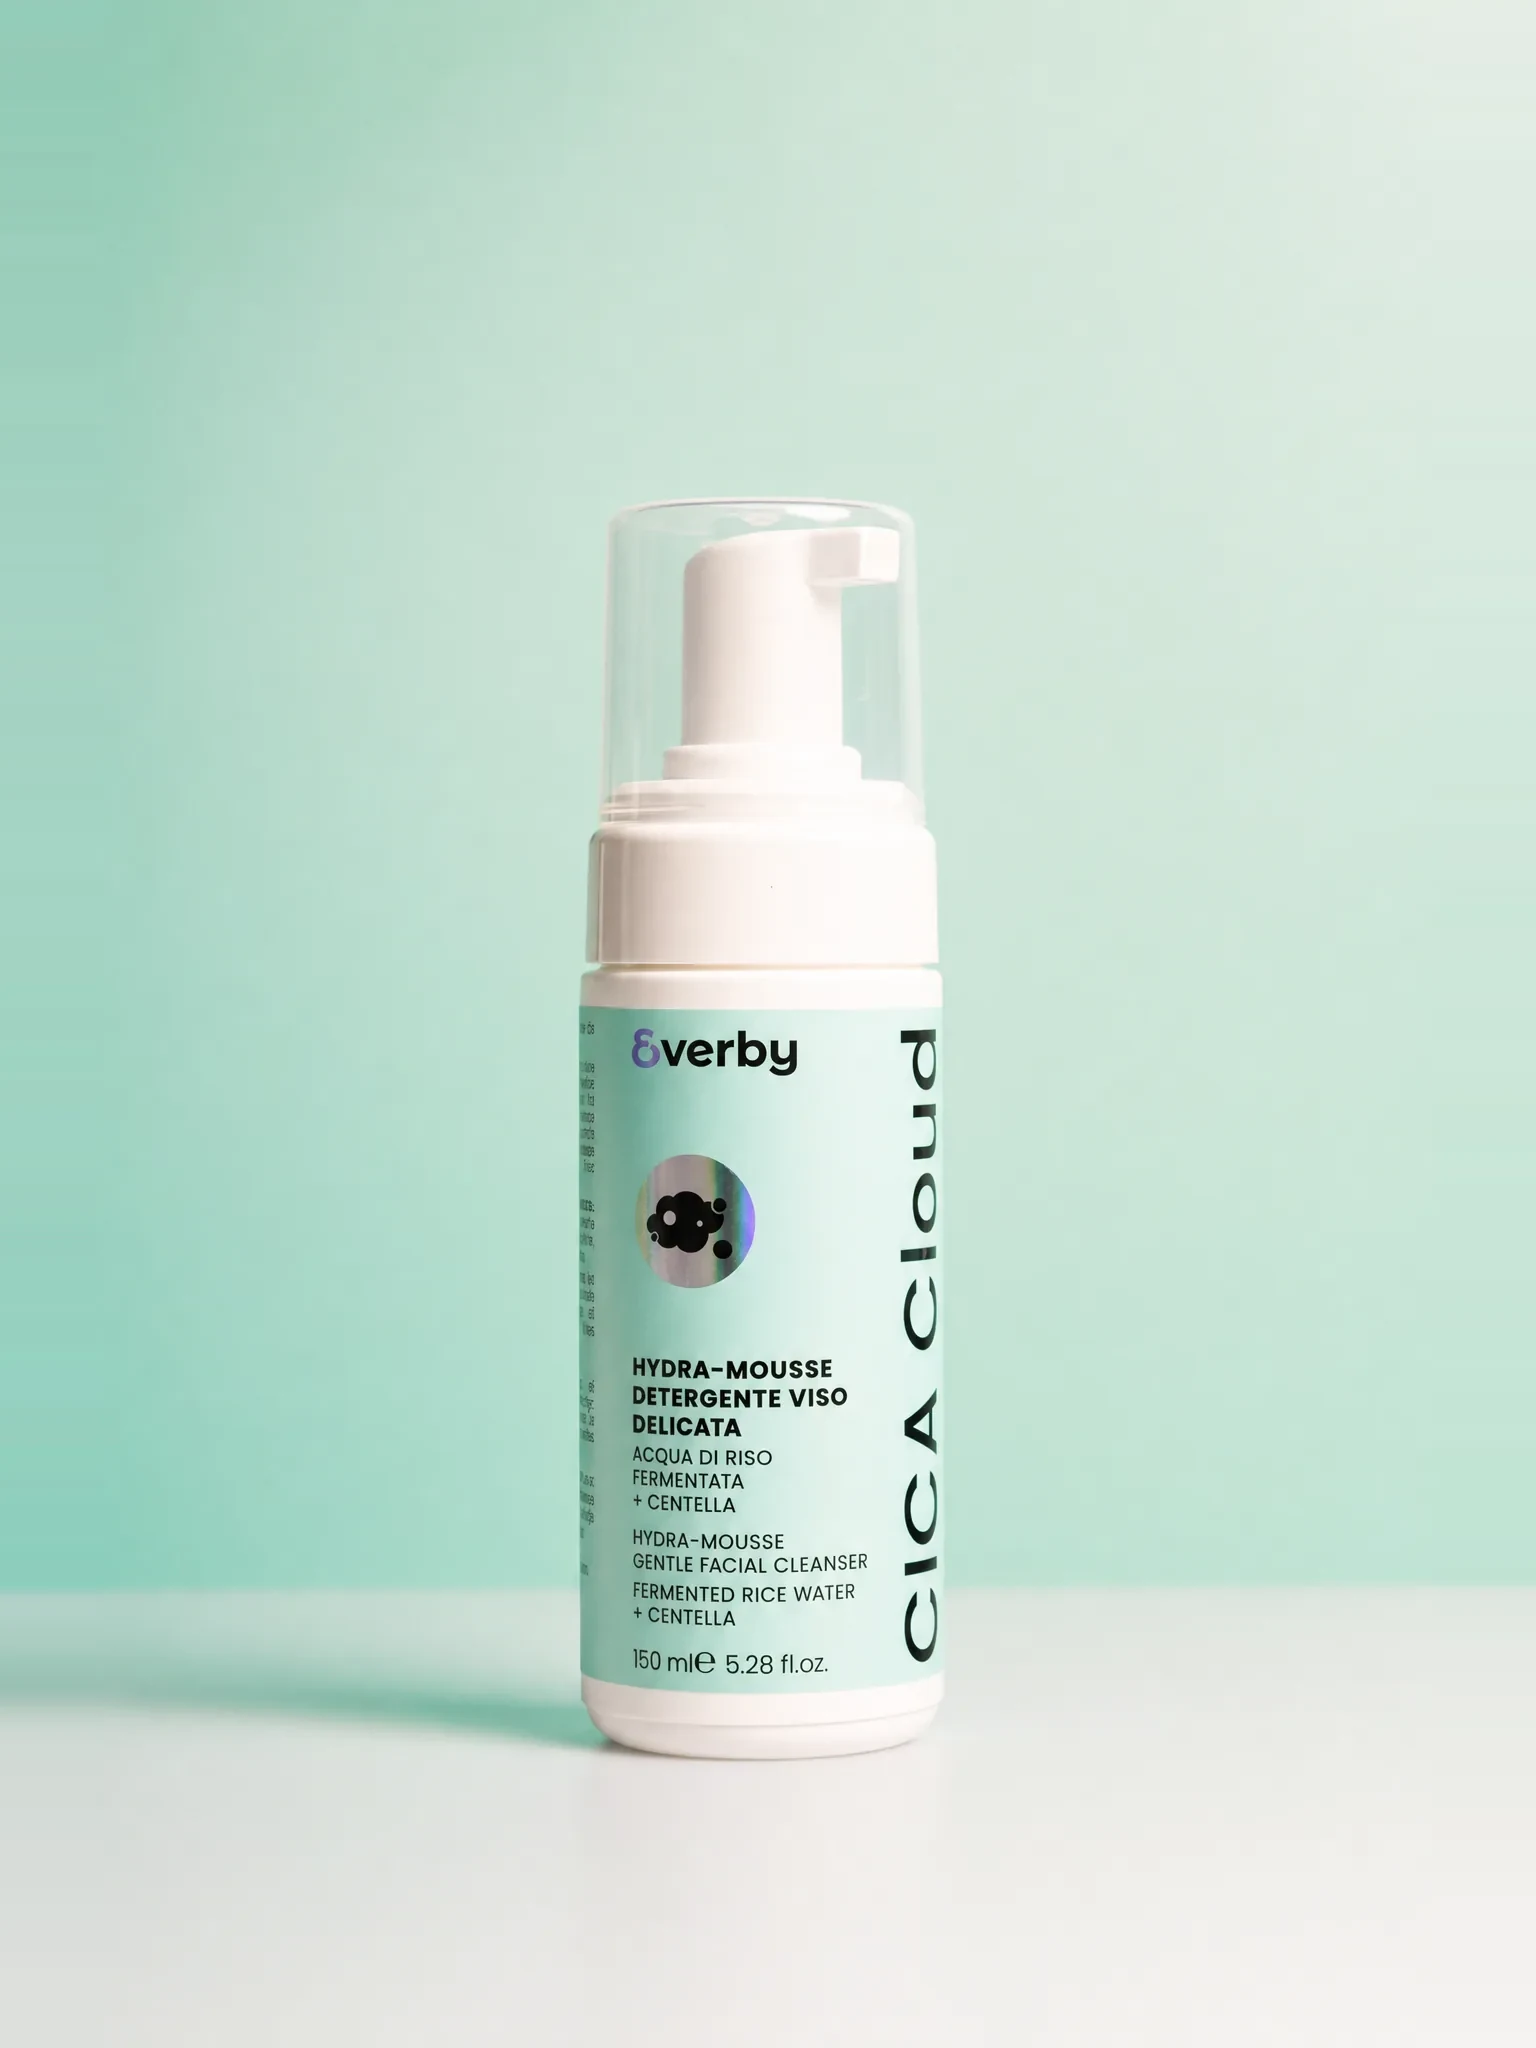
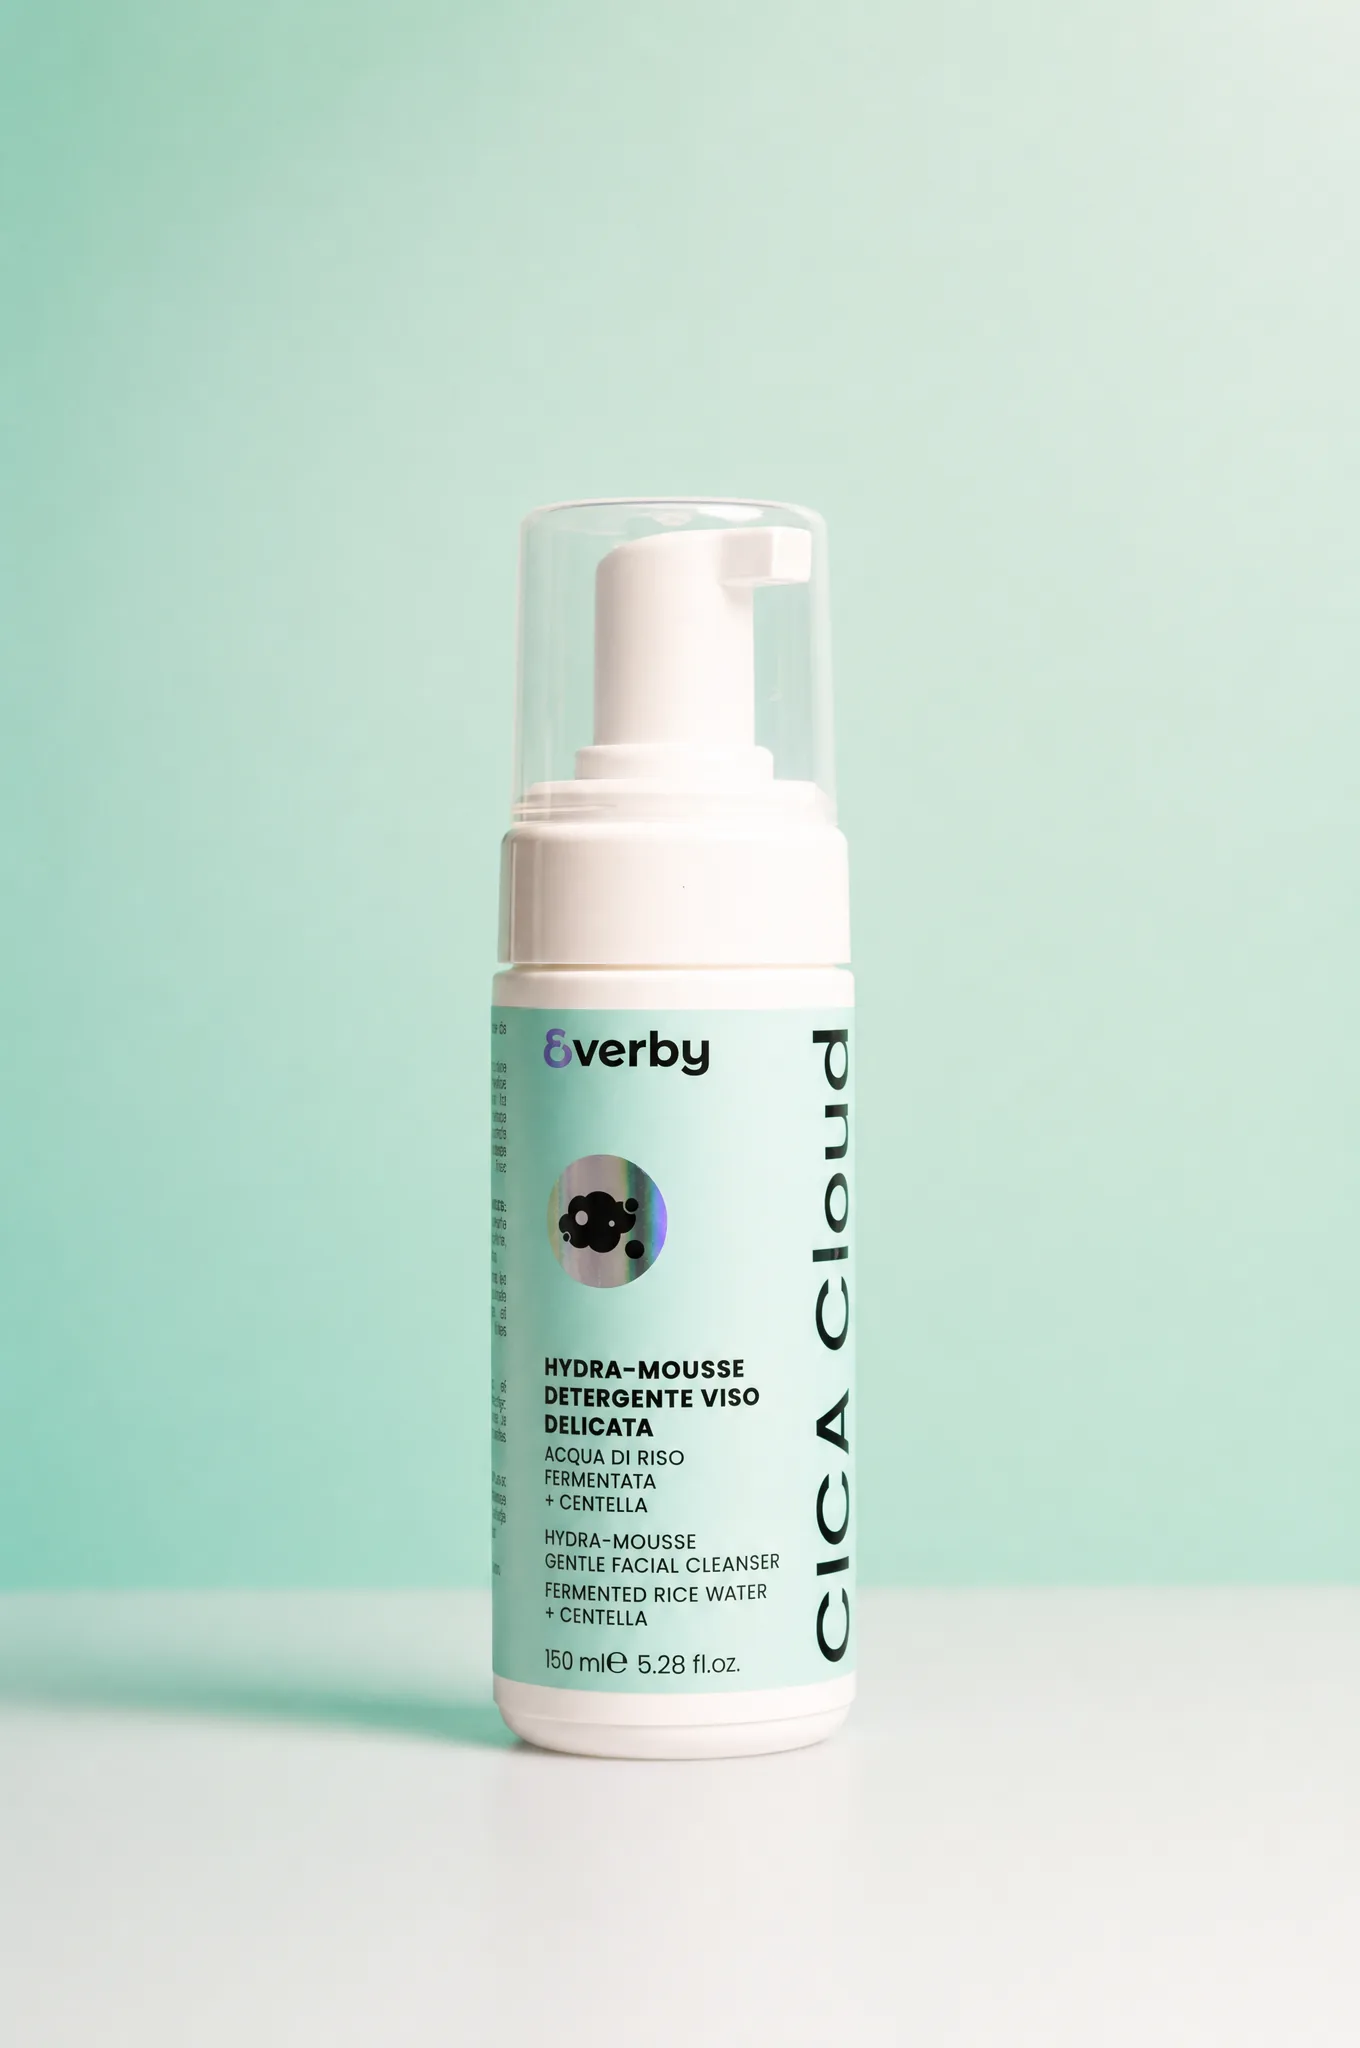
Fix foto stirate: hero Everby+Uomo dalla galleria prodotto-pack (no stretch)
Audit di tutte le linee: 17 hero prodotto erano stati forzati a 3:4 (~0.75) stirando orizzontalmente l'originale (0.664) -> bordi smerigliati (righe al posto della pietra). Sostituiti con i file corretti da immagini/_GALLERIA/<linea>/<prodotto>/prodotto-pack/ (10 Everby + 7 Uomo). object-fit:cover invariato; ora niente distorsione.
Bump cache-buster card ?v=4 -> ?v=5.
Da rivedere: cocco/scrub-corpo-cocco-e-monoi (in galleria il pack e landscape 1.339, lasciato com'e).

diff --git a/linee/linea.html b/linee/linea.html
@@ -1207,7 +1207,7 @@ body.theme-line-antieta {
         article.innerHTML = `
           <div class="mini-card__visual">
             ${cardImg
-              ? `<img loading="lazy" decoding="async" src="${cardImg}?v=4" alt="${locData.name}" style="position:absolute;inset:0;width:100%;height:100%;object-fit:cover;object-position:center;">`
+              ? `<img loading="lazy" decoding="async" src="${cardImg}?v=5" alt="${locData.name}" style="position:absolute;inset:0;width:100%;height:100%;object-fit:cover;object-position:center;">`
               : `<div class="pm">${productMock(line.palette, '', shape)}</div>`
             }
           </div>
